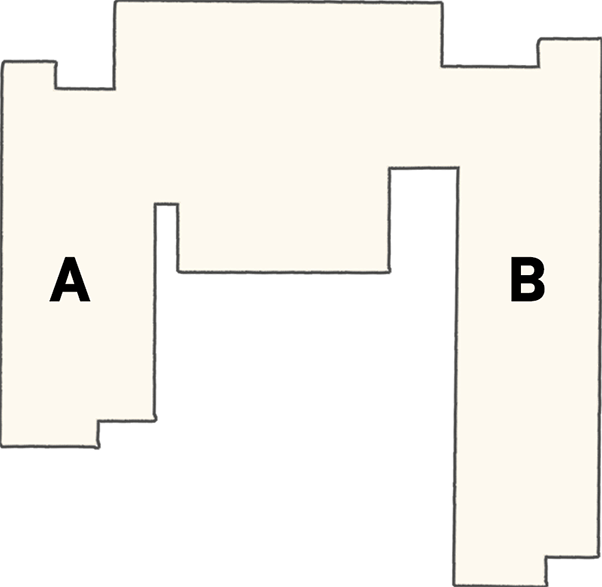
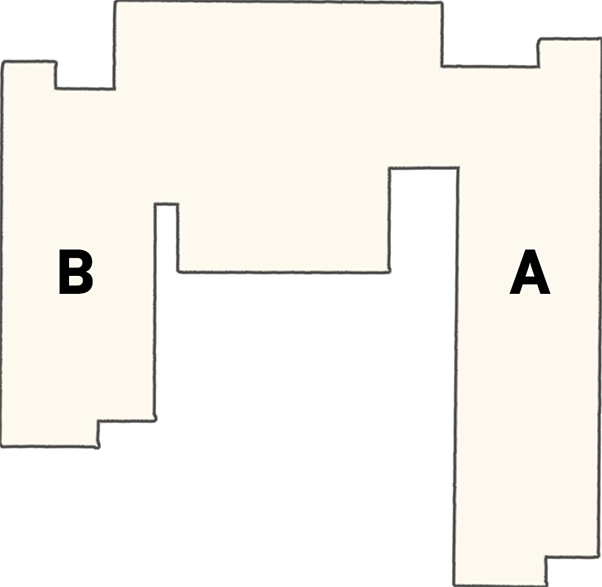
Add loader, fill about page, fix building plan letters and buttons.

Changed region(s): [[0.0598, 0.3986, 0.1794, 0.5213], [0.8372, 0.3986, 0.9269, 0.5213]]

diff --git a/app/page.jsx b/app/page.jsx
@@ -1,9 +1,7 @@
 'use client';
 
-import Feed from '@components/Feed';
-import { useEffect, useState } from 'react'
 import Link from 'next/link';
-import { Children } from 'react';
+import React from 'react';
 
 const Home = () => {
   return (
@@ -12,13 +10,19 @@ const Home = () => {
           Liikumine on rõõm!
         </h1>
         <br className="max-md:hidden" />
-            <span className="w-full flex-center flex-col head_text text-center blue_gradient">
-              Liigume, LVG õpilased!              
-            </span>
-            <p className="w-full flex-center flex-col desc text-center">
-              Leiage oma endale kasulikud nõuanned, et koguaeg terveks jääda.
-           </p>
-           <Feed />
+        <span className="w-full flex-center flex-col head_text text-center blue_gradient">
+          Liigume, LVG õpilased!              
+        </span>
+        <p className="w-full flex-center flex-col desc text-center">
+          Leiage oma endale kasulikud nõuanned, et koguaeg terveks jääda.
+        </p>
+        <div className="text-center pt-36 md:mt-24 text-lg font-extrabold text-black">
+          <Link href="/rajad">
+            <p className="black_btn">
+              Vali oma rada!
+            </p>
+          </Link>
+        </div>
     </div>
   )
 }

diff --git a/app/rajad/page.jsx b/app/rajad/page.jsx
@@ -1,7 +1,6 @@
 'use client';
 
-import { useEffect, useState } from 'react'
-import '@styles/globals.css';
+import React from 'react'
 import Image from 'next/image';
 import Link from 'next/link';
 
@@ -20,27 +19,27 @@ const rajad = () => {
             className='mb-10'
         />
 
-        <Link href="/rajad/A">
+        <Link href="/rajad/B">
             <button className="blue_btn text-xl xs:hidden absolute font-bold left-1/4 max-sm:hidden">
-                A-hoone
+                B-hoone
             </button>
         </Link>
 
-        <Link href="/rajad/A">
+        <Link href="/rajad/B">
             <button className="blue_btn text-base font-bold absolute left-3 sm:left-3 md:hidden">
-                A-hoone
+                B-hoone
             </button>
         </Link>
         
-        <Link href="/rajad/B">
+        <Link href="/rajad/A">
             <button className="blue_btn text-xl font-bold right-1/4 absolute max-sm:hidden">
-                B-hoone
+                A-hoone
             </button>
         </Link>
 
-        <Link href="/rajad/B">
+        <Link href="/rajad/A">
             <button className="blue_btn text-base font-bold absolute right-3 md:hidden">
-                B-hoone
+                A-hoone
             </button>
         </Link>
     </div>

diff --git a/app/about/page.jsx b/app/about/page.jsx
@@ -1,11 +1,31 @@
 'use client';
 
-import { useState } from 'react'
-import '@styles/globals.css';
+import Link from 'next/link';
+import React from 'react'
 
 const about = () => {
   return (
-    <div> about </div>
+    <div className='mt-5 mb-5'>
+      <h1 className='mt-2.5 mb-2.5 text-base font-bold text-black blue_gradient'>
+        See veebirakendus tehtud spetsiaalselt praktilise töö jaoks.
+      </h1>
+      <hr className='mt-5 mb-2.5'/>
+      <p className='mt-5 mb-5 text-lg text-black'> 
+        <strong>Autor:</strong> Konstantin Razdolski
+      </p>
+
+      <p className='mt-5 mb-5 text-lg text-black'>
+          <Link className='hover:underline' href="mailto:haridula@proton.me">
+            <strong>Email:</strong> haridula@proton.me
+          </Link>
+      </p>
+          
+      <p className=' mt-5 mb-5 text-lg text-black'>
+        <Link className='hover:underline' href="https://github.com/Haridula">
+            <strong>GitHub:</strong> Haridula
+        </Link>
+      </p>
+    </div>
   )
 }
 

diff --git a/components/loader.jsx b/components/loader.jsx
@@ -1,0 +1,33 @@
+'use client';
+
+import { useState, useEffect } from 'react';
+
+const Loader = () => {
+  const [isLoading, setIsLoading] = useState(true);
+
+  useEffect(() => {
+    // Simulate loading process
+    const timer = setTimeout(() => setIsLoading(false));
+
+    return () => clearTimeout(timer); // Cleanup timeout on component unmount
+  }, []);
+
+  // Best loading thing I have ever seen in my entire life 
+  return (
+    <>
+      {isLoading ? (
+        <div className="min-h-screen flex justify-center items-center bg-white">
+          <div className="loader bg-stone-800 p-5 rounded-full flex space-x-3">
+            <div className="w-5 h-5 bg-indigo-200 rounded-full animate-bounce"/>
+            <div className="w-5 h-5 bg-indigo-200 rounded-full animate-bounce"/>
+            <div className="w-5 h-5 bg-indigo-200 rounded-full animate-bounce"/>
+          </div>
+        </div>
+      ) : (
+        <div/>
+      )}
+    </>
+  );
+};
+
+export default Loader;

diff --git a/app/layout.jsx b/app/layout.jsx
@@ -1,21 +1,23 @@
 import '@styles/globals.css';
 import Nav from '@components/Nav';
+import Loader from '@components/loader';
 
 export const metadata = {
     title: "Liikuma Kutsuv LVG",
     description: 'Liikumisega seotud nõuanned ja terviserajad'
 }
 
-const RootLayout = ({ children }) => {
+function RootLayout({ children, loader }) {
   return (
     <html lang="ee">
-        <body>
-            <main className="app">
-                <Nav />
-              {children}
-            </main>
-        </body>
-     </html>
-  )
+      <body>
+        <main className="app">
+          <Loader />
+          <Nav />
+          {children}
+        </main>
+      </body>
+    </html>
+  );
 }
   export default RootLayout

diff --git a/styles/globals.css b/styles/globals.css
@@ -65,6 +65,18 @@
     opacity: 0.15;
 }
 
+.loader div:nth-child(1){
+    animation-delay: 0.05s;
+}
+
+.loader div:nth-child(2){
+    animation-delay: 0.2s;
+}
+
+.loader div:nth-child(3){
+    animation-delay: 0.35s;
+}
+
 @media screen and (max-width: 640px) {
     .main {
         padding: 0;

diff --git a/tailwind.config.js b/tailwind.config.js
@@ -8,7 +8,7 @@ module.exports = {
   theme: {
       fontSize: {
         sm: ['20px', '20px'],
-        base: ['30px', '30px'],
+        base: ['30px', '38px'],
         lg: ['24px', '28px'],
         xl: ['48.832px', '63px'],
       },

diff --git a/components/Nav.jsx b/components/Nav.jsx
@@ -1,6 +1,6 @@
 'use client';
 
-import { useEffect, useState } from 'react'
+import React from 'react'
 import Link from 'next/link';
 import Image from 'next/image';
 
